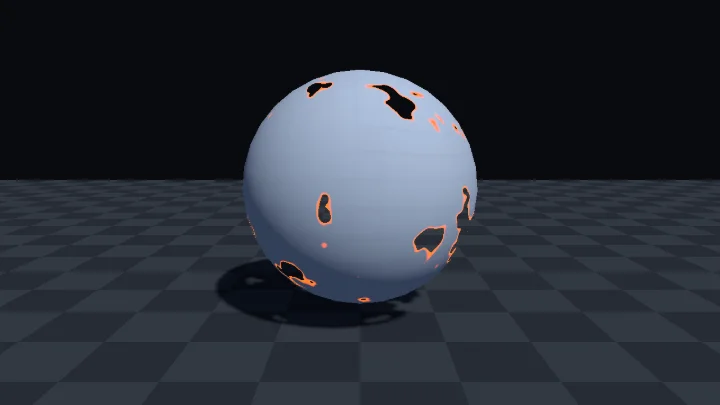
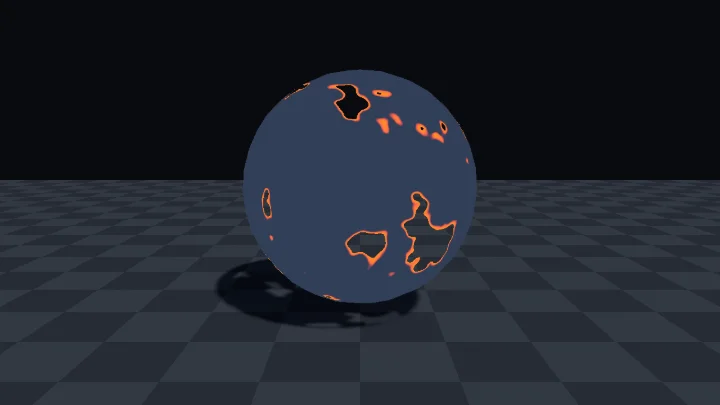
메시 촬영 시작 회전, 프롬프트 텍스처 단계, 주광원 처리 (묶음 1 리뷰)
- mesh 무대 물체를 Unity 촬영과 웹 첫 화면 모두 Y 30도에서 시작한다.
  정면만 찍으면 큐브의 삼평면 효과가 썸네일에 안 보였다.
- '그대로 넣기' 프롬프트에 stage.textures 의 임포트 설정과 머티리얼 칸
  지정 단계를 자동으로 넣는다.
- 메시 샘플의 주광원을 위치를 받는 GetMainLight 로 바꾸고
  distanceAttenuation 을 곱한다. 그림자 거리 페이드와 Culling Mask 를
  따른다 (URP 17.3 소스 확인). 디졸브와 프레넬을 다시 촬영했다.

diff --git a/web/src/core/prompts.ts b/web/src/core/prompts.ts
@@ -41,6 +41,15 @@ const REQUIRE_STEPS: Record<Requirement, string> = {
   opaque: '사용 중인 URP Asset 의 Opaque Texture 를 켠다. 품질 단계마다 URP Asset 이 다르면 모두 켠다. 카메라의 Opaque Texture 가 Off 이면 Use Pipeline Settings 로 바꾼다.',
 }
 
+/** 표본 폴더 PNG 의 임포트 설정과 머티리얼 칸. 스프라이트의 _MainTex 는 SpriteRenderer 의 스프라이트가 채운다 */
+function textureSteps(meta: SpecimenMeta): string[] {
+  return Object.entries(meta.stage.textures ?? {}).map(([name, t]) => {
+    const settings = `Inspector 에서 sRGB (Color Texture) 를 ${t.linear ? '끄고' : '켜고'}, Wrap Mode 를 ${t.repeat ? 'Repeat' : 'Clamp'}, Filter Mode 를 ${t.point ? 'Point' : 'Bilinear'} 로 둔다`
+    const slot = meta.stage.kind === 'sprite' && name === '_MainTex' ? '스프라이트로 쓴다' : `머티리얼의 \`${name}\` 칸에 넣는다`
+    return `\`${t.file}\` 을 같은 폴더에 두고 ${settings}. ${slot}.`
+  })
+}
+
 export interface PromptSource {
   meta: SpecimenMeta
   files: SpecimenFile[]
@@ -70,7 +79,7 @@ export function buildPrompt(kind: PromptKind, source: PromptSource, values: Para
   const code = codeSection(source, values)
 
   if (kind === 'direct') {
-    const steps = [`아래 파일을 \`Assets/Shaders/${meta.id}/\` 에 그대로 만든다. 코드는 바꾸지 않는다.`, ...(meta.requires ?? []).map(r => REQUIRE_STEPS[r]), ...KIND_STEPS[meta.stage.kind], '머티리얼 값을 아래 표대로 맞춘다.', `확인: ${meta.unity.verify}`]
+    const steps = [`아래 파일을 \`Assets/Shaders/${meta.id}/\` 에 그대로 만든다. 코드는 바꾸지 않는다.`, ...textureSteps(meta), ...(meta.requires ?? []).map(r => REQUIRE_STEPS[r]), ...KIND_STEPS[meta.stage.kind], '머티리얼 값을 아래 표대로 맞춘다.', `확인: ${meta.unity.verify}`]
     return [
       `# Unity 셰이더 추가: ${meta.title}`,
       head,

diff --git a/web/src/stage/layout.ts b/web/src/stage/layout.ts
@@ -17,6 +17,11 @@ export const LAYOUT = {
   lightIntensity: 1.2,
   camera: { position: [0, 1.3, -3.6], target: [0, 0.75, 0], fov: 40, near: 0.1, far: 100 },
   sprite: { orthographicSize: 1.5, height: 2, cameraZ: -5 },
+  /**
+   * mesh 무대 물체의 시작 회전 (Unity Y 회전, 도). SgCapture.MeshYawDeg 와 같다. 촬영과 웹 첫 화면이 같고,
+   * 정면만 보이면 큐브 같은 물체의 효과가 썸네일에 드러나지 않아 둔다. quad, plane 은 돌리지 않는다
+   */
+  meshYawDeg: 30,
   /** mesh 무대의 물체 배치. SgCapture.PlaceEffectMesh 와 같은 값 */
   meshPlacement: {
     sphere: { position: [0, 0.85, 0], scale: 1.5, shadow: 0.75 },

diff --git a/web/src/stage/ShaderStage.ts b/web/src/stage/ShaderStage.ts
@@ -165,7 +165,10 @@ class ShaderStage {
     this.fireClock.clear()
     this.azimuth = 0
     this.elevation = 0
-    this.spin = 0
+    // Unity 촬영과 같은 각도에서 시작한다. three.js 의 y 회전은 Unity 와 부호가 반대다
+    const shape = specimen.meta.stage.mesh
+    const turns = specimen.meta.stage.kind === 'mesh' && shape !== 'quad' && shape !== 'plane'
+    this.spin = turns ? (-LAYOUT.meshYawDeg * Math.PI) / 180 : 0
     this.dragging = false
     this.framesRendered = 0
     this.build(specimen)

diff --git a/Assets/Editor/ShaderGallery/SgCapture.cs b/Assets/Editor/ShaderGallery/SgCapture.cs
@@ -222,28 +222,37 @@ namespace ShaderGallery.EditorTools
         // web/src/stage/layout.ts 의 meshPlacement, depthPlacement 와 같은 값.
         static void PlaceEffectMesh(Stage stage, string mesh, Material material, bool depth)
         {
+            GameObject go;
             switch (mesh)
             {
                 case "capsule":
-                    AddMesh(stage, "New-Capsule.fbx", material, new Vector3(0f, depth ? 0.6f : 1f, 0f), depth ? 1.4f : 1f);
+                    go = AddMesh(stage, "New-Capsule.fbx", material, new Vector3(0f, depth ? 0.6f : 1f, 0f), depth ? 1.4f : 1f);
                     break;
                 case "cylinder":
-                    AddMesh(stage, "New-Cylinder.fbx", material, new Vector3(0f, depth ? 0.6f : 1f, 0f), depth ? 1.4f : 1f);
+                    go = AddMesh(stage, "New-Cylinder.fbx", material, new Vector3(0f, depth ? 0.6f : 1f, 0f), depth ? 1.4f : 1f);
                     break;
                 case "cube":
-                    AddMesh(stage, "Cube.fbx", material, new Vector3(0f, depth ? 0.5f : 0.75f, 0f), depth ? 1.6f : 1.2f);
+                    go = AddMesh(stage, "Cube.fbx", material, new Vector3(0f, depth ? 0.5f : 0.75f, 0f), depth ? 1.6f : 1.2f);
                     break;
                 case "quad":
-                    AddMesh(stage, "Quad.fbx", material, new Vector3(0f, depth ? 0.6f : 0.85f, 0f), depth ? 2.4f : 1.6f);
+                    go = AddMesh(stage, "Quad.fbx", material, new Vector3(0f, depth ? 0.6f : 0.85f, 0f), depth ? 2.4f : 1.6f);
                     break;
                 case "plane":
-                    AddMesh(stage, "New-Plane.fbx", material, new Vector3(0f, depth ? 0.3f : 0.5f, 0f), depth ? 0.35f : 0.3f);
+                    go = AddMesh(stage, "New-Plane.fbx", material, new Vector3(0f, depth ? 0.3f : 0.5f, 0f), depth ? 0.35f : 0.3f);
                     break;
                 default:
-                    AddMesh(stage, "New-Sphere.fbx", material, new Vector3(0f, depth ? 0.55f : 0.85f, 0f), depth ? 2.2f : 1.5f);
+                    go = AddMesh(stage, "New-Sphere.fbx", material, new Vector3(0f, depth ? 0.55f : 0.85f, 0f), depth ? 2.2f : 1.5f);
                     break;
             }
+            // 시작 회전. 웹 layout.ts 의 meshYawDeg 와 같다. 정면만 찍으면 큐브 같은 물체의 효과가 썸네일에 드러나지 않는다.
+            // 웹의 depth 무대 물체와 quad, plane 은 돌지 않으므로 여기서도 돌리지 않는다.
+            if (!depth && mesh != "quad" && mesh != "plane")
+            {
+                go.transform.rotation = Quaternion.Euler(0f, MeshYawDeg, 0f);
+            }
         }
+
+        const float MeshYawDeg = 30f;
 
         static void AddFloor(Stage stage)
         {
